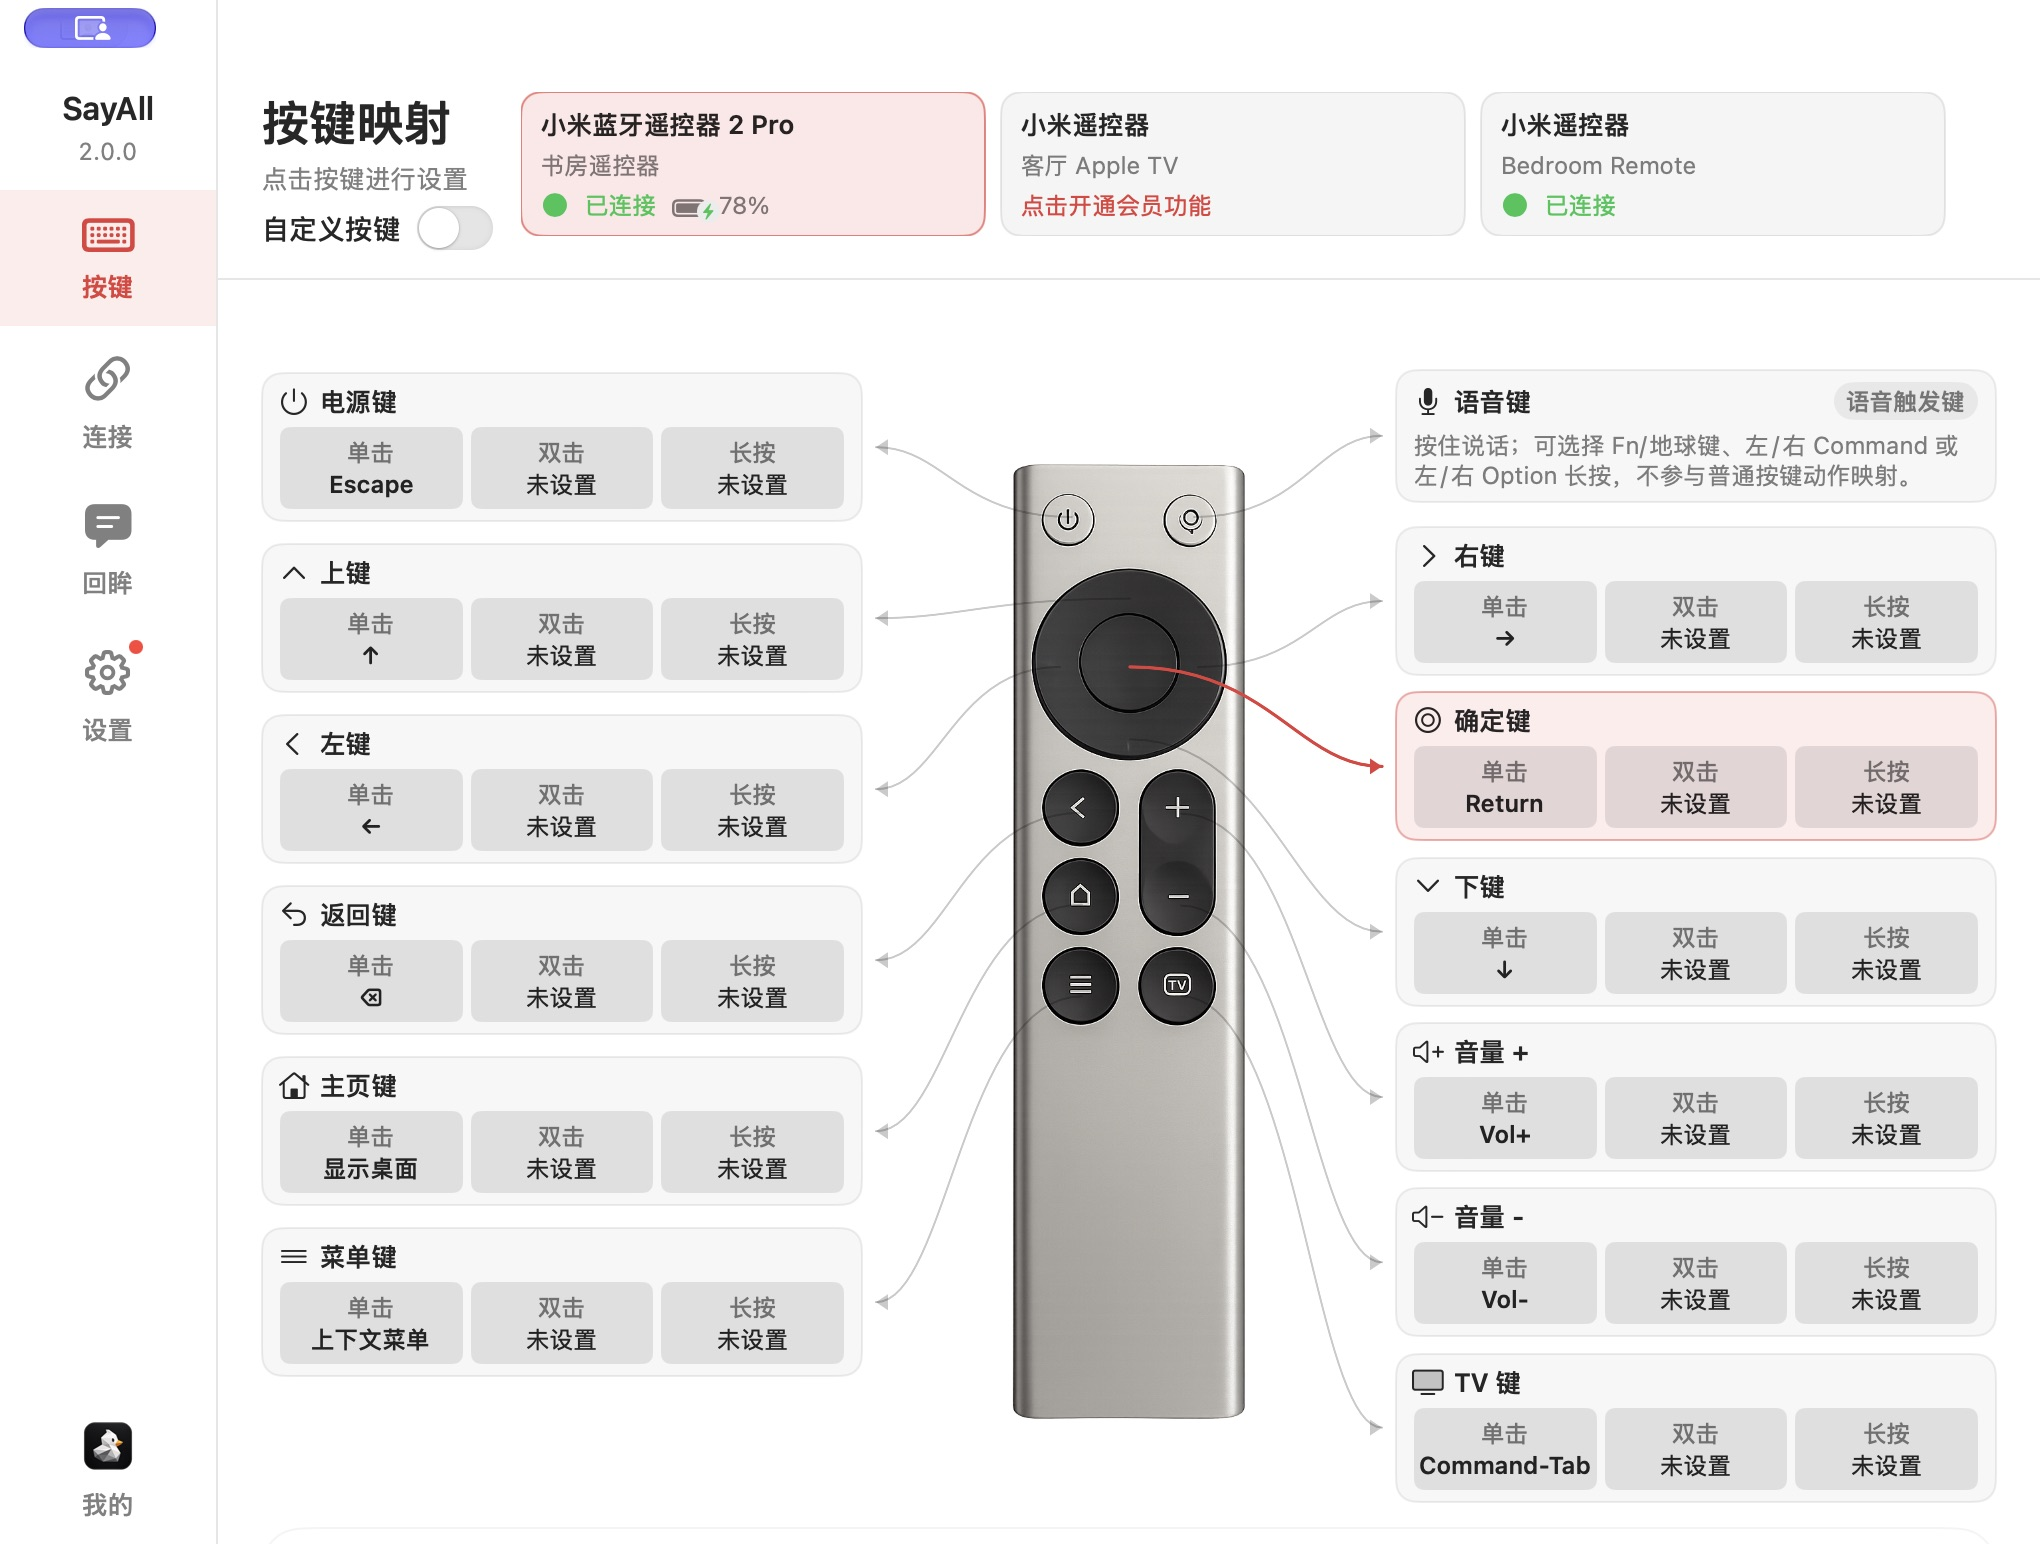
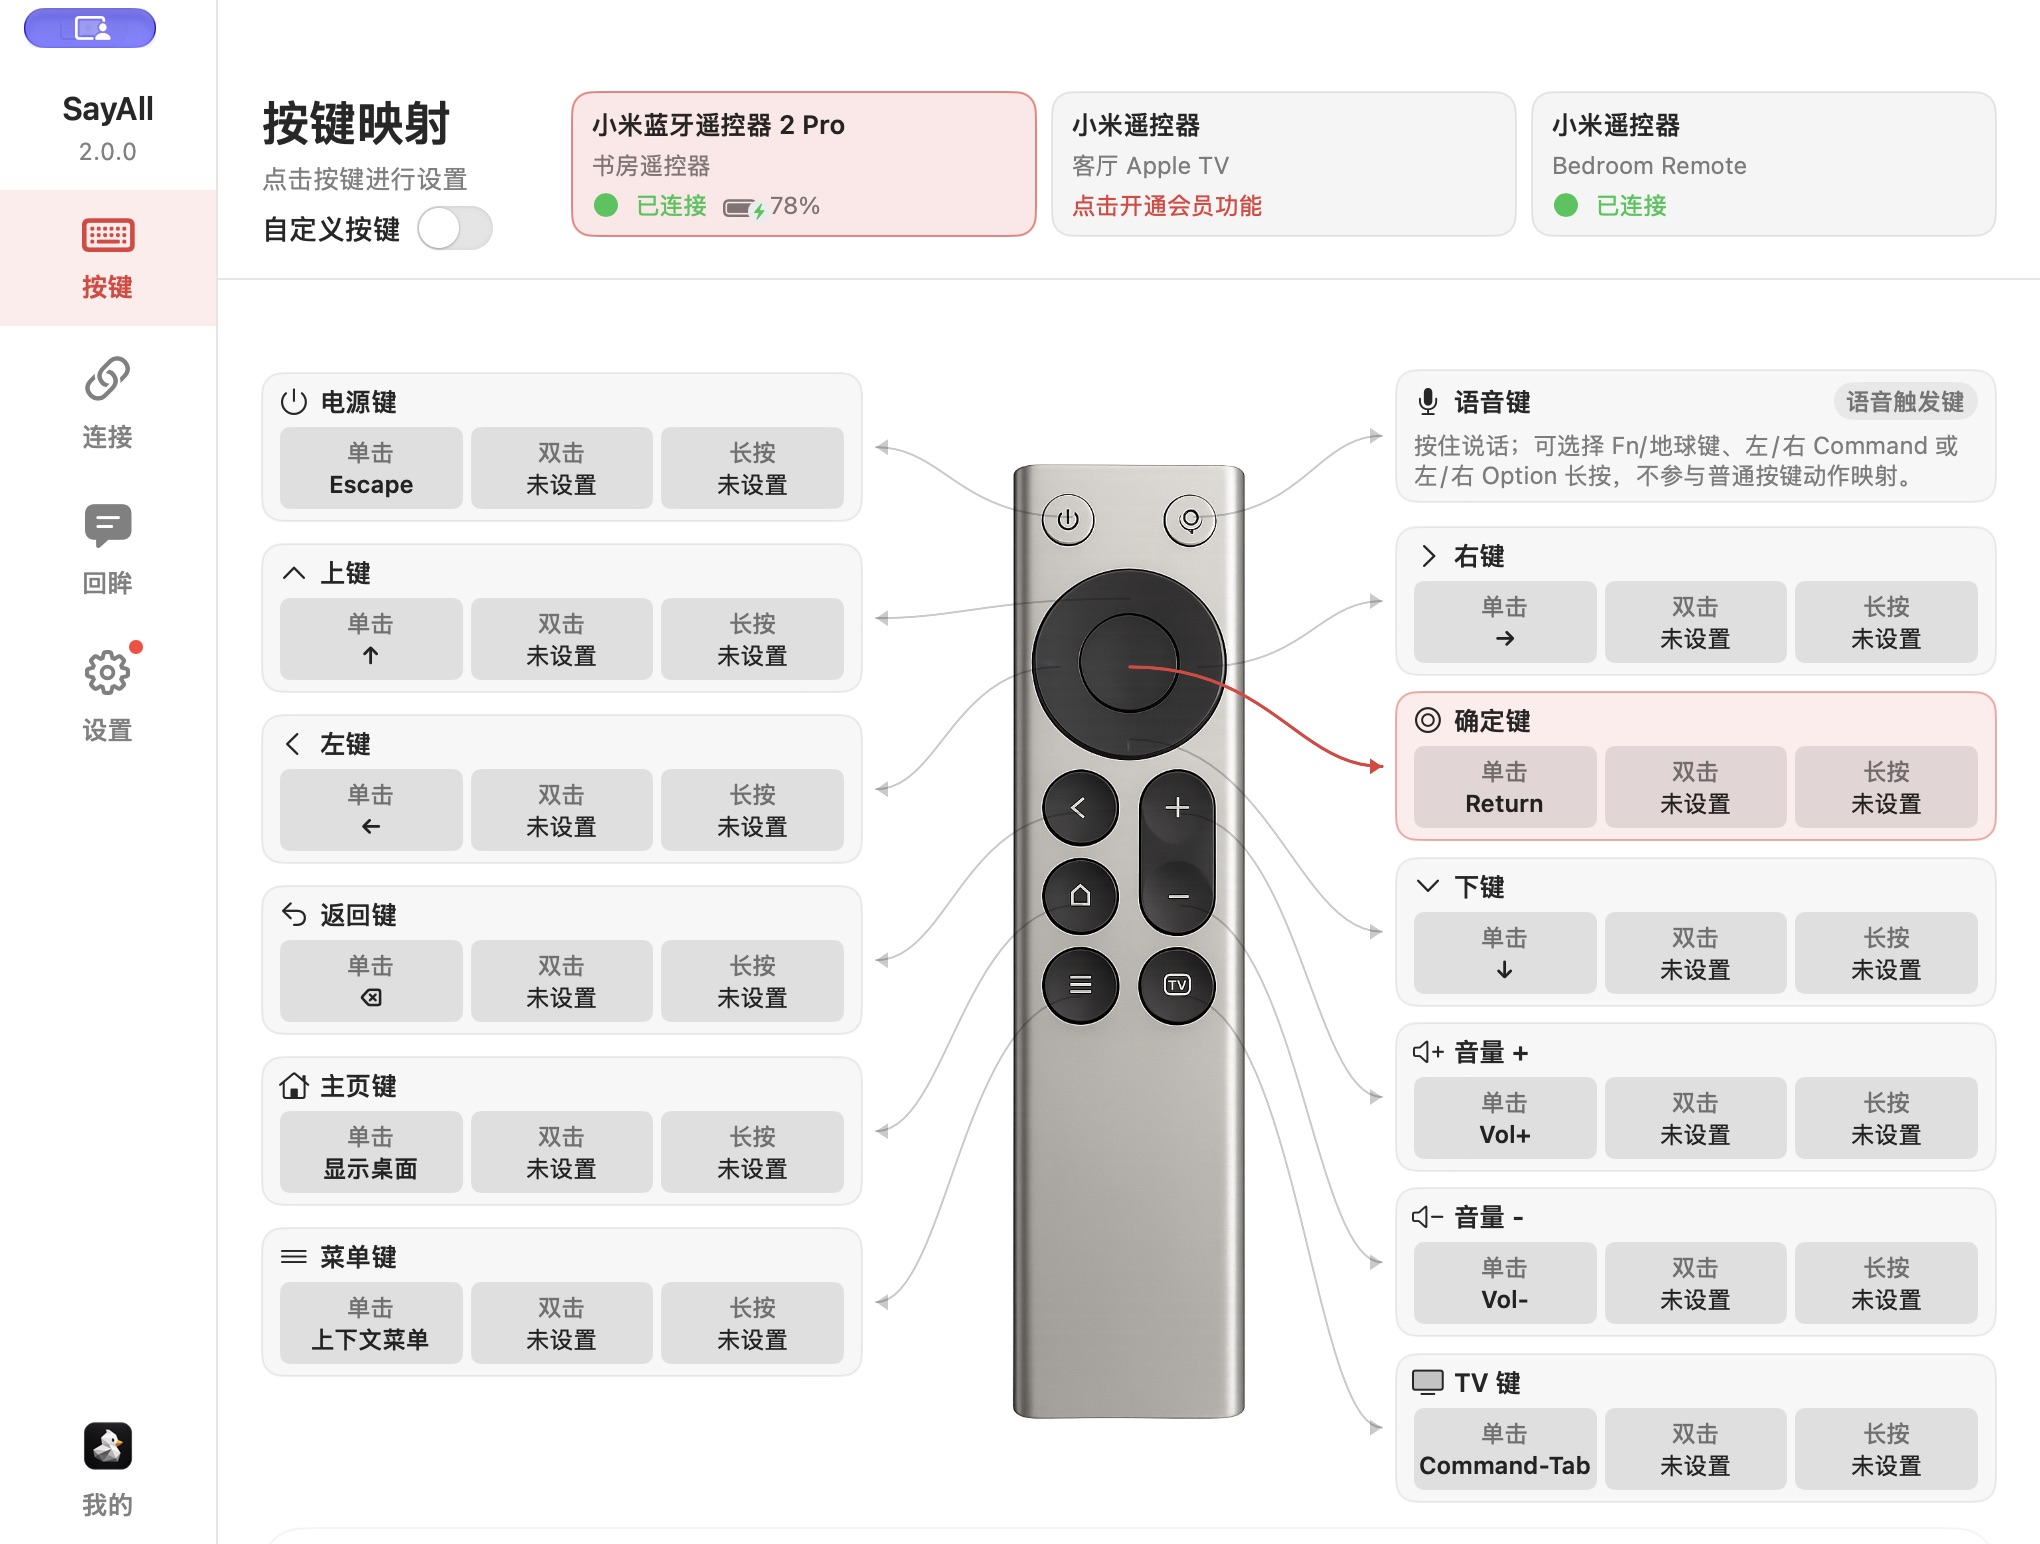
fix(mac): right-align mapping device cards when they fit

Changed region(s): [[0.2471, 0.0622, 0.4015, 0.1554], [0.4632, 0.0622, 0.6176, 0.1554], [0.7412, 0.0622, 0.8647, 0.1554]]

diff --git a/Bugs/2026-10-20-mapping-header-layout.html b/Bugs/2026-10-20-mapping-header-layout.html
@@ -491,7 +491,9 @@ body.am-lightbox-open { overflow: hidden; }
 <div class="am-panel-body"><div class="am-md"><p><code>mappingPageHeader</code> 把标题和开关放在同一行，占用额外宽度。
 <code>hardwareMappingPage</code> 使用垂直居中，导致标题随卡片高度下沉。
 现在将标题、副标题、开关纵向排列，并把左右区域改为顶部对齐。
-左栏保留按内容确定宽度，设备卡片区域因此向左扩展。
+左栏保留按内容确定宽度，设备卡片区域因此向左扩展。</p>
+<p>按用户追加要求，卡片可容纳时靠右排列，超宽时使用原横向滚动。
+<code>ViewThatFits</code> 只选择卡片布局，不把设备区域换到页头下一行。
 不修改共用25pt标题、18pt顶部边距、卡片宽度或设备逻辑。</p>
 </div></div>
 </section>
@@ -520,6 +522,9 @@ body.am-lightbox-open { overflow: hidden; }
 <li>空设备和三卡状态的标题、副标题、开关完整。</li>
 <li>中文浅色实际窗口已点击全部公开侧栏入口，并确认按键页滚动可达底部。</li>
 </ul>
+<p>最终实际窗口使用相同二进制和隔离截图数据。
+仅本地检查副本使用独立Bundle ID和ad-hoc重签名，避免绑定用户运行窗口。
+生产身份与源码未改。原始JPEG保留在截图目录中，未转码。</p>
 <p>新增断言初次因代码区间匹配到同名前缀而失败，修正匹配后整组通过。
 截图格式、尺寸、SHA-256和大小见 <code>Screenshots/bug-fixes/mapping-header/manifest.json</code>。
 副标题13pt、开关14pt；不缩小中文。</p>
@@ -538,7 +543,7 @@ body.am-lightbox-open { overflow: hidden; }
 </div>
 </div>
 </main>
-<footer class="am-colophon">Generated by Answer me with HTML 0.4.6 · 2026-10-20 19:40</footer>
+<footer class="am-colophon">Generated by Answer me with HTML 0.4.6 · 2026-10-20 19:54</footer>
 <textarea id="am-source" hidden readonly aria-hidden="true">---
 title: 按键页头布局修复
 template: doc
@@ -571,6 +576,9 @@ lang: zh
 `hardwareMappingPage` 使用垂直居中，导致标题随卡片高度下沉。
 现在将标题、副标题、开关纵向排列，并把左右区域改为顶部对齐。
 左栏保留按内容确定宽度，设备卡片区域因此向左扩展。
+
+按用户追加要求，卡片可容纳时靠右排列，超宽时使用原横向滚动。
+`ViewThatFits` 只选择卡片布局，不把设备区域换到页头下一行。
 不修改共用25pt标题、18pt顶部边距、卡片宽度或设备逻辑。
 
 ## 背景边界
@@ -596,6 +604,10 @@ lang: zh
 - 生产SettingsView离屏检查覆盖中英文、浅深色、1020×772和800×650页头。
 - 空设备和三卡状态的标题、副标题、开关完整。
 - 中文浅色实际窗口已点击全部公开侧栏入口，并确认按键页滚动可达底部。
+
+最终实际窗口使用相同二进制和隔离截图数据。
+仅本地检查副本使用独立Bundle ID和ad-hoc重签名，避免绑定用户运行窗口。
+生产身份与源码未改。原始JPEG保留在截图目录中，未转码。
 
 新增断言初次因代码区间匹配到同名前缀而失败，修正匹配后整组通过。
 截图格式、尺寸、SHA-256和大小见 `Screenshots/bug-fixes/mapping-header/manifest.json`。

diff --git a/Tests/RemoteMicTests/SettingsPageRegressionTests.swift b/Tests/RemoteMicTests/SettingsPageRegressionTests.swift
@@ -1283,6 +1283,9 @@ struct SettingsPageRegressionTests {
         #expect(selectorSource.contains("ForEach(visibleProfiles)"))
         #expect(selectorSource.contains("remoteDeviceEmptyState(vertical: vertical)"))
         #expect(!selectorSource.contains("fillsWidth: visibleProfiles.count == 2"))
+        #expect(selectorSource.contains("ViewThatFits(in: .horizontal)"))
+        #expect(selectorSource.contains("cards.fixedSize(horizontal: true, vertical: false)"))
+        #expect(selectorSource.contains(".frame(maxWidth: .infinity, alignment: .trailing)"))
         #expect(selectorSource.contains("ScrollView(.horizontal, showsIndicators: false)"))
         #expect(!selectorSource.contains("ScrollView(.horizontal, showsIndicators: true)"))
         #expect(!selectorSource.contains("ForEach(settings.remoteDeviceProfiles)"))

diff --git a/Sources/RemoteMic/SettingsView.swift b/Sources/RemoteMic/SettingsView.swift
@@ -2180,11 +2180,15 @@ struct SettingsView: View {
                 }
             }
         } else {
-            ScrollView(.horizontal, showsIndicators: false) {
-                HStack(spacing: 8) {
-                    ForEach(visibleProfiles) { profile in
-                        remoteDeviceCard(profile)
-                    }
+            let cards = HStack(spacing: 8) {
+                ForEach(visibleProfiles) { profile in
+                    remoteDeviceCard(profile)
+                }
+            }
+            ViewThatFits(in: .horizontal) {
+                cards.fixedSize(horizontal: true, vertical: false)
+                ScrollView(.horizontal, showsIndicators: false) {
+                    cards
                 }
             }
             .frame(maxWidth: .infinity, alignment: .trailing)

diff --git a/TODO.md b/TODO.md
@@ -349,7 +349,7 @@
   - 2026-10-10 候选：Chromecast 左、确定、右默认可配置，旧豁免设置不再阻止三键。宿主策略、私有画布测试及中英文浅深色截图已通过；系统媒体双执行、快速按、按住释放和真实语音基线仍待验收，父项保持未完成。
   - 2026-10-03 按本会话六项 UI 要求统一动作库与方案库样式和搜索，调整按键标题开关、说明和语音卡片滚底；自动化与最小窗口通过，本地公证包待用户重测。未改变执行或语音路径，父项仍未完成。
   - 2026-10-03 按用户要求将遥控器列表固定在按键标题同一行，交换连接与回眸；最小窗口布局和自动化通过，新本地公证包待用户复验多设备横滚。执行和语音路径不变，父项保持未完成。
-  - 2026-10-20 按键页头改为标题、副标题、开关三行，并与设置页顶部对齐；设备区域向左扩展，背景不变。60 项页面回归、中英文浅深色截图及公开宿主窗口检查通过；真实多设备与私有组件验收不在本次结果内，父项保持未完成。
+  - 2026-10-20 按键页头改为标题、副标题、开关三行，并与设置页顶部对齐；设备区域向左扩展，卡片可容纳时靠右、超宽时横滚，背景不变。60 项页面回归、中英文浅深色截图及公开宿主窗口检查通过；真实多设备与私有组件验收不在本次结果内，父项保持未完成。
   - 2026-10-03 同步已合入的常用语 PR #558：三配置808/808/860项与自检48通过，补中文浅深色六入口及英文关键状态22张实际窗口截图；真实设备与语音基线仍待验收。新增“发送常用语”宏步骤须在现有两仓工作合入后从最新主线独立开发。
   - 2026-10-03 用户测试发现新建选中反馈不明显、历史方案数据占用旧宏绑定文件导致加载失败；本轮修复并补全新建/保存/重开及旧数据兼容回归，取消“更多动作”和底部 MCP 说明。真实硬件边界仍保持待验收；见 `Bugs/2026-10-03-macro-creation-feedback-and-legacy-loading.md`。 按键页按用户要求补充“点击按键配置设置动作”副标题，共享页头保持13pt操作指引。
   - 2026-10-10 修复候选：搜索忽略首尾空格；动作库返回保留原编辑项，清空搜索并显示自定义动作。最后步骤提示到按键页明确选择动作。公开842项、免费集成850项和隔离窗口创建/保存/返回/选择/重开通过；真实遥控器及第三方执行待验收。见 [审查记录](Bugs/2026-10-10-combination-action-search-and-return.html)。

diff --git a/Bugs/2026-10-20-mapping-header-layout.md b/Bugs/2026-10-20-mapping-header-layout.md
@@ -30,6 +30,9 @@ lang: zh
 `hardwareMappingPage` 使用垂直居中，导致标题随卡片高度下沉。
 现在将标题、副标题、开关纵向排列，并把左右区域改为顶部对齐。
 左栏保留按内容确定宽度，设备卡片区域因此向左扩展。
+
+按用户追加要求，卡片可容纳时靠右排列，超宽时使用原横向滚动。
+`ViewThatFits` 只选择卡片布局，不把设备区域换到页头下一行。
 不修改共用25pt标题、18pt顶部边距、卡片宽度或设备逻辑。
 
 ## 背景边界
@@ -55,6 +58,10 @@ lang: zh
 - 生产SettingsView离屏检查覆盖中英文、浅深色、1020×772和800×650页头。
 - 空设备和三卡状态的标题、副标题、开关完整。
 - 中文浅色实际窗口已点击全部公开侧栏入口，并确认按键页滚动可达底部。
+
+最终实际窗口使用相同二进制和隔离截图数据。
+仅本地检查副本使用独立Bundle ID和ad-hoc重签名，避免绑定用户运行窗口。
+生产身份与源码未改。原始JPEG保留在截图目录中，未转码。
 
 新增断言初次因代码区间匹配到同名前缀而失败，修正匹配后整组通过。
 截图格式、尺寸、SHA-256和大小见 `Screenshots/bug-fixes/mapping-header/manifest.json`。

diff --git a/Testing/UnifiedButtonConfiguration.md b/Testing/UnifiedButtonConfiguration.md
@@ -339,7 +339,7 @@ Siri Remote/Chromecast 属于已实现适配的源码候选，不能宣称真机
 
 1. 在1020×772窗口打开按键页。标题、副标题、开关必须依次分成三行。
 2. 切换设置页，再返回按键页。标题字号和顶部边距必须一致。
-3. 使用空设备和多设备状态。右侧设备区域必须从左侧三行之后开始，不能挤压或遮挡文字。
+3. 使用空设备和多设备状态。卡片可容纳时必须靠右排列；超宽时保持横向滚动，不能挤压或遮挡左侧文字。
 4. 横向滚动设备区域，再纵向滚动页面。末卡和底部语音设置必须可达。
 5. 分别检查中文、英文、浅色和深色。背景必须与修改前同环境截图一致。
 6. 依次点击当前构建的全部侧栏入口。窗口几何不得改变，主要控件必须可达。
